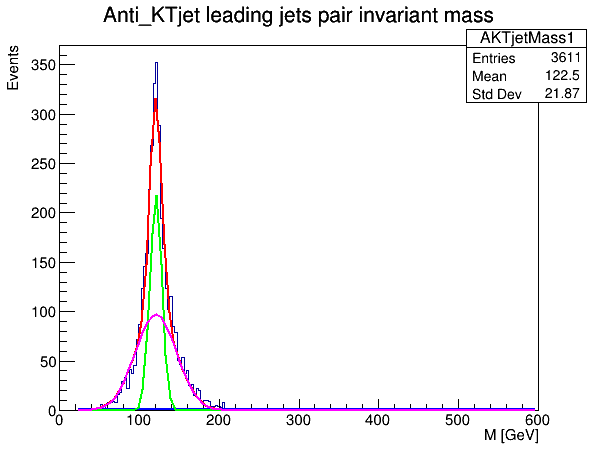
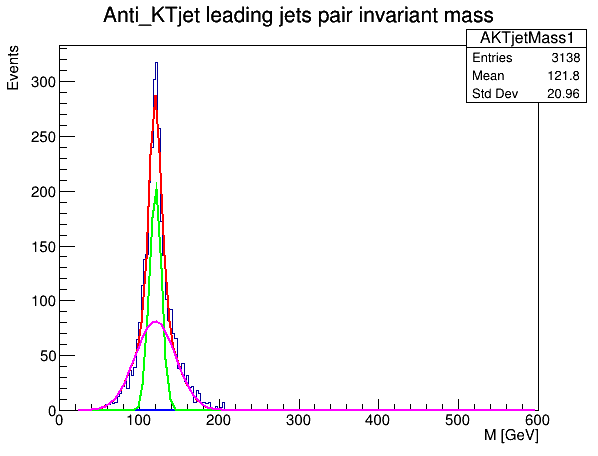
Update resolution plot

diff --git a/Delphes/src/PairingDiHiggs.C b/Delphes/src/PairingDiHiggs.C
@@ -52,8 +52,8 @@ void PairingDiHiggs(const char *inputFile, const char *outputFile){
      TH1D *AKTjetMass1 = new TH1D("AKTjetMass1", "Anti_KTjet leading jets pair invariant mass", 200 , 0, 600); 
      TH1D *AKTjetMass2 = new TH1D("AKTjetMass2", "Anti_KTjet sub-leading jets pair invariant mass", 200 , 0, 600); 
      TH1D *GenAKTMass2 = new TH1D("GenAKTMass2", "GenAKTMass2", 100 , 0, 600); 
-     TH1D *AKTGenMass2Comp = new TH1D("AKTGenMass2Comp", "AKTGenMass2Comp", 100 , -1.5, 1.5); 
-     
+     TH1D *AKTGenMass1Comp = new TH1D("AKTGenMass2Comp", "AKTGenMass2Comp", 200 , -1, 1); 
+     TH1D *AKTGenMass2Comp = new TH1D("AKTGenMass2Comp", "AKTGenMass2Comp", 200 , -1, 1); 
      TH1D *GenUncutMass2 = new TH1D("GenUncutMass2", "GenUncutMass2", 100 , 0, 600); 
  
      Double_t AKTjet1eta1;
@@ -83,6 +83,17 @@ void PairingDiHiggs(const char *inputFile, const char *outputFile){
      Double_t Gen1mass;
      Double_t Gen2mass;
 
+     Double_t Gen3eta;
+     Double_t Gen3phi;
+     Double_t Gen4eta;
+     Double_t Gen4phi;
+     Double_t Gen3pt;
+     Double_t Gen4pt;
+     Double_t Gen3mass;
+     Double_t Gen4mass;
+
+
+
      Int_t pair1jet1entry;
      Int_t pair1jet2entry;
      Int_t pair2jet1entry;
@@ -107,6 +118,8 @@ void PairingDiHiggs(const char *inputFile, const char *outputFile){
      TLorentzVector Genh2;
      TLorentzVector GenJet1;
      TLorentzVector GenJet2;
+     TLorentzVector GenJet3;
+     TLorentzVector GenJet4;
 
      cout << "Running Pairing up Algo..." << endl;
 //run over event entries
@@ -254,32 +267,34 @@ void PairingDiHiggs(const char *inputFile, const char *outputFile){
 
 	     Int_t jet1entry;
 	     Int_t jet2entry;
+	     Int_t jet3entry;
+	     Int_t jet4entry;
 //Truth matching for anti-KT jets
-             for(Int_t gen3entry=0; gen3entry < nGenJet; gen3entry++){
-  	         Gen1eta = GenJet_eta->GetValue(gen3entry);
-	         Gen1phi = GenJet_phi->GetValue(gen3entry);
+             for(Int_t gen1entry=0; gen1entry < nGenJet; gen1entry++){
+  	         Gen1eta = GenJet_eta->GetValue(gen1entry);
+	         Gen1phi = GenJet_phi->GetValue(gen1entry);
 	         Float_t jet1DeltaRtmp = TMath::Sqrt(pow((AKTjet1eta1-Gen1eta),2)+pow((AKTjet1phi1-Gen1phi),2));
 	         if(jet1DeltaRtmp < jet1DeltaR){
 	             jet1DeltaR = jet1DeltaRtmp;
-		     jet1entry = gen3entry;
 		     if (jet1DeltaR < 0.5){
 		         //if (abs(Gen1eta) < 2.25){
 		             AKT1jet1flag = true;
+		             jet1entry = gen1entry;
 		         //}
 		     }
 	         }  
              }
-             for(Int_t gen4entry=0; gen4entry < nGenJet; gen4entry++){
-  	         Gen2eta = GenJet_eta->GetValue(gen4entry);
-	         Gen2phi = GenJet_phi->GetValue(gen4entry);
+             for(Int_t gen2entry=0; gen2entry < nGenJet; gen2entry++){
+  	         Gen2eta = GenJet_eta->GetValue(gen2entry);
+	         Gen2phi = GenJet_phi->GetValue(gen2entry);
 	         Float_t jet2DeltaRtmp = TMath::Sqrt(pow((AKTjet1eta2-Gen2eta),2)+pow((AKTjet1phi2-Gen2phi),2));
-	         if (gen4entry != jet1entry){
+	         if (gen2entry != jet1entry){
                      if(jet2DeltaRtmp < jet2DeltaR){
 	                 jet2DeltaR = jet2DeltaRtmp;
-		         jet2entry = gen4entry;
                          if (jet2DeltaR < 0.5){
 		             //if (abs(Gen2eta) < 2.25){
 		                 AKT1jet2flag = true;
+		                 jet2entry = gen2entry;
 			     //}
 		         }
 	             }
@@ -288,31 +303,31 @@ void PairingDiHiggs(const char *inputFile, const char *outputFile){
              jet1DeltaR = 100;
              jet2DeltaR = 100;
 
-	     for(Int_t gen1entry=0; gen1entry < nGenJet; gen1entry++){
-  	         Gen1eta = GenJet_eta->GetValue(gen1entry);
-	         Gen1phi = GenJet_phi->GetValue(gen1entry);
-	         Float_t jet1DeltaRtmp = TMath::Sqrt(pow((AKTjet2eta1-Gen1eta),2)+pow((AKTjet2phi1-Gen1phi),2));
+	     for(Int_t gen3entry=0; gen3entry < nGenJet; gen3entry++){
+  	         Gen3eta = GenJet_eta->GetValue(gen3entry);
+	         Gen3phi = GenJet_phi->GetValue(gen3entry);
+	         Float_t jet1DeltaRtmp = TMath::Sqrt(pow((AKTjet2eta1-Gen3eta),2)+pow((AKTjet2phi1-Gen3phi),2));
 	         if(jet1DeltaRtmp < jet1DeltaR){
 	             jet1DeltaR = jet1DeltaRtmp;
-		     jet1entry = gen1entry;
 		     if (jet1DeltaR < 0.5){
 		         //if (abs(Gen1eta) < 2.25){
 		             AKT2jet1flag = true;
+		             jet3entry = gen3entry;
 		         //}
 		     }
 	         }  
              }
-             for(Int_t gen2entry=0; gen2entry < nGenJet; gen2entry++){
-  	         Gen2eta = GenJet_eta->GetValue(gen2entry);
-	         Gen2phi = GenJet_phi->GetValue(gen2entry);
-	         Float_t jet2DeltaRtmp = TMath::Sqrt(pow((AKTjet2eta2-Gen2eta),2)+pow((AKTjet2phi2-Gen2phi),2));
-	         if (gen2entry != jet1entry){
+             for(Int_t gen4entry=0; gen4entry < nGenJet; gen4entry++){
+  	         Gen4eta = GenJet_eta->GetValue(gen4entry);
+	         Gen4phi = GenJet_phi->GetValue(gen4entry);
+	         Float_t jet2DeltaRtmp = TMath::Sqrt(pow((AKTjet2eta2-Gen4eta),2)+pow((AKTjet2phi2-Gen4phi),2));
+	         if (gen4entry != jet1entry){
                      if(jet2DeltaRtmp < jet2DeltaR){
 	                 jet2DeltaR = jet2DeltaRtmp;
-		         jet2entry = gen2entry;
                          if (jet2DeltaR < 0.5){
 		             //if (abs(Gen2eta) < 2.25){
 		                 AKT2jet2flag = true;
+		                 jet4entry = gen4entry;
 			     //}
 		         }
 	             }
@@ -321,8 +336,10 @@ void PairingDiHiggs(const char *inputFile, const char *outputFile){
 	     
 	     if (AKTjetpair1Mass < AKTjetpair2Mass) {
 	         swap(AKTjetpair1Mass, AKTjetpair2Mass);
+		 swap(jet1entry,jet3entry);
+		 swap(jet2entry,jet4entry);
 	     }
-	     /* 
+	      
              Gen1eta = GenJet_eta->GetValue(jet1entry);
              Gen1phi = GenJet_phi->GetValue(jet1entry);
              Gen1pt = GenJet_pt->GetValue(jet1entry);
@@ -336,15 +353,31 @@ void PairingDiHiggs(const char *inputFile, const char *outputFile){
 	     GenJet2.SetPtEtaPhiM(Gen2pt, Gen2eta, Gen2phi,Gen2mass);
 	     Genh2=GenJet1+GenJet2;
 	     GenJetMass = Genh2.Mag();
-             Double_t AKTGendiff = (AKTjetpair2Mass-GenJetMass)/GenJetMass;
-	     */
+             Double_t AKTGen1diff = (GenJetMass - AKTjetpair2Mass)/GenJetMass;
+
+	     Gen3eta = GenJet_eta->GetValue(jet3entry);
+             Gen3phi = GenJet_phi->GetValue(jet3entry);
+             Gen3pt = GenJet_pt->GetValue(jet3entry);
+             Gen3mass = GenJet_mass->GetValue(jet3entry);
+             Gen4eta = GenJet_eta->GetValue(jet4entry);
+             Gen4phi = GenJet_phi->GetValue(jet4entry);
+             Gen4pt = GenJet_pt->GetValue(jet4entry);
+             Gen4mass = GenJet_mass->GetValue(jet4entry);
+         
+	     GenJet3.SetPtEtaPhiM(Gen3pt, Gen3eta, Gen3phi,Gen3mass);
+	     GenJet4.SetPtEtaPhiM(Gen4pt, Gen4eta, Gen4phi,Gen4mass);
+	     Genh2=GenJet3+GenJet4;
+	     GenJetMass = Genh2.Mag();
+             Double_t AKTGen2diff = (GenJetMass - AKTjetpair2Mass)/GenJetMass;
+
 	 
              if (AKT1jet1flag==true and AKT1jet2flag==true and AKT2jet1flag==true and AKT2jet2flag==true){
 	         
 		 AKTjetMass1->Fill(AKTjetpair1Mass);
                  AKTjetMass2->Fill(AKTjetpair2Mass);
 		 //GenAKTMass2->Fill(GenJetMass);
-	         //AKTGenMass2Comp->Fill(AKTGendiff);
+	         AKTGenMass1Comp->Fill(AKTGen1diff);
+	         AKTGenMass2Comp->Fill(AKTGen2diff);
 	     } 
              //AKTjetMass1->Fill(AKTjetpair1Mass);
              //AKTjetMass2->Fill(AKTjetpair2Mass);
@@ -422,16 +455,20 @@ void PairingDiHiggs(const char *inputFile, const char *outputFile){
      cout <<endl<< "Run gaussian fit for the sub-leading GenJet pair (Uncut)..."<<endl;
      //GenUncutMass2->Fit("jetpair2fit","R");
      //mycanvas->SaveAs("GenUncutMass2.png");
+     
+     AKTGenMass1Comp->Draw();
+     mycanvas->SaveAs("AKTGenMass1Comp.png");
 
-     //AKTGenMass2Comp->Draw();
-     //mycanvas->SaveAs("AKTGenMass2Comp.png");
+     AKTGenMass2Comp->Draw();
+     mycanvas->SaveAs("AKTGenMass2Comp.png");
 
      cout <<endl<< "Output in TTree..."<<endl;
 
      AKTjetMass1->Write();
      AKTjetMass2->Write();
      //GenAKTMass2->Write();
-     //AKTGenMass2Comp->Write();
+     AKTGenMass1Comp->Write();
+     AKTGenMass2Comp->Write();
      //GenUncutMass2->Write();
 
      tree_output->Write();
